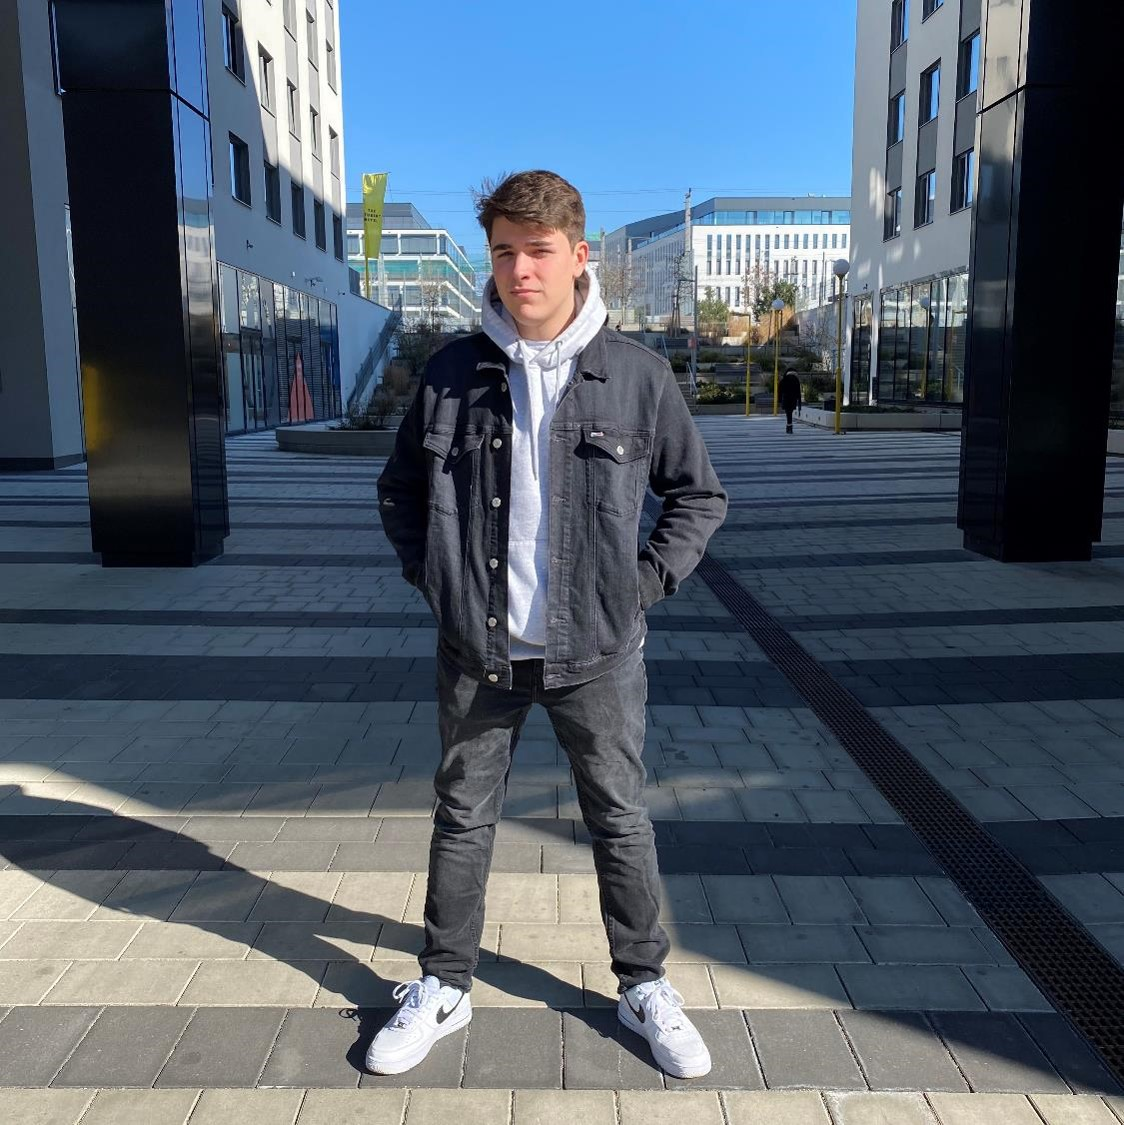
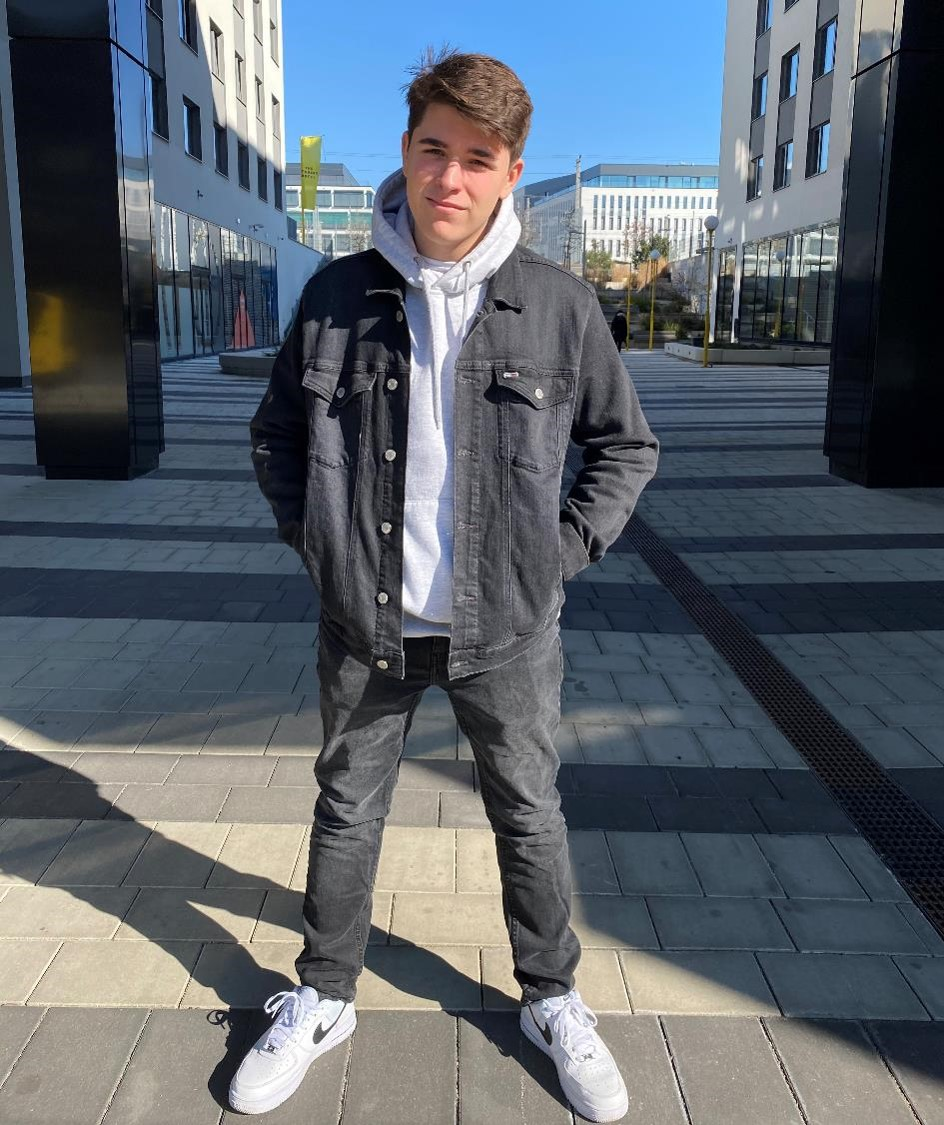
Update about and picture

diff --git a/public_html/nl/index.html b/public_html/nl/index.html
@@ -105,7 +105,7 @@
             <h3>Student &amp; Ontwikkelaar.</h3>
             <p class="font-italic">
               Ik ben een ontwikkelaar met goede communicatie -en leiderschapsvaardigheden en een brede kennis van verschillende programmeertalen.
-              Momenteel ben ik aan het studeren voor een bachelor in toegepaste informatica en werk ik terwijl als (meestal front-end) ontwikkelaar bij 3-it bvba.
+              Momenteel ben ik aan het studeren voor een bachelor in toegepaste informatica en doe ik mijn stage aan de Universiteit van Wenen.
             </p>
             <div class="row">
               <div class="col-lg-6">

diff --git a/public_html/en/index.html b/public_html/en/index.html
@@ -104,7 +104,7 @@
             <h3>Student &amp; Developer.</h3>
             <p class="font-italic">
               I am a developer with good communication and leadership skills and a good understanding of different programming languages.
-              Currently I'm studying to obtain a bachelor's degree in computer science, whilst also working as a (usually front-end) developer at 3-it bvba.
+              Currently I'm studying to obtain a bachelor's degree in computer science, whilst doing my internship at the University of Vienna.
             </p>
             <div class="row">
               <div class="col-lg-6">
